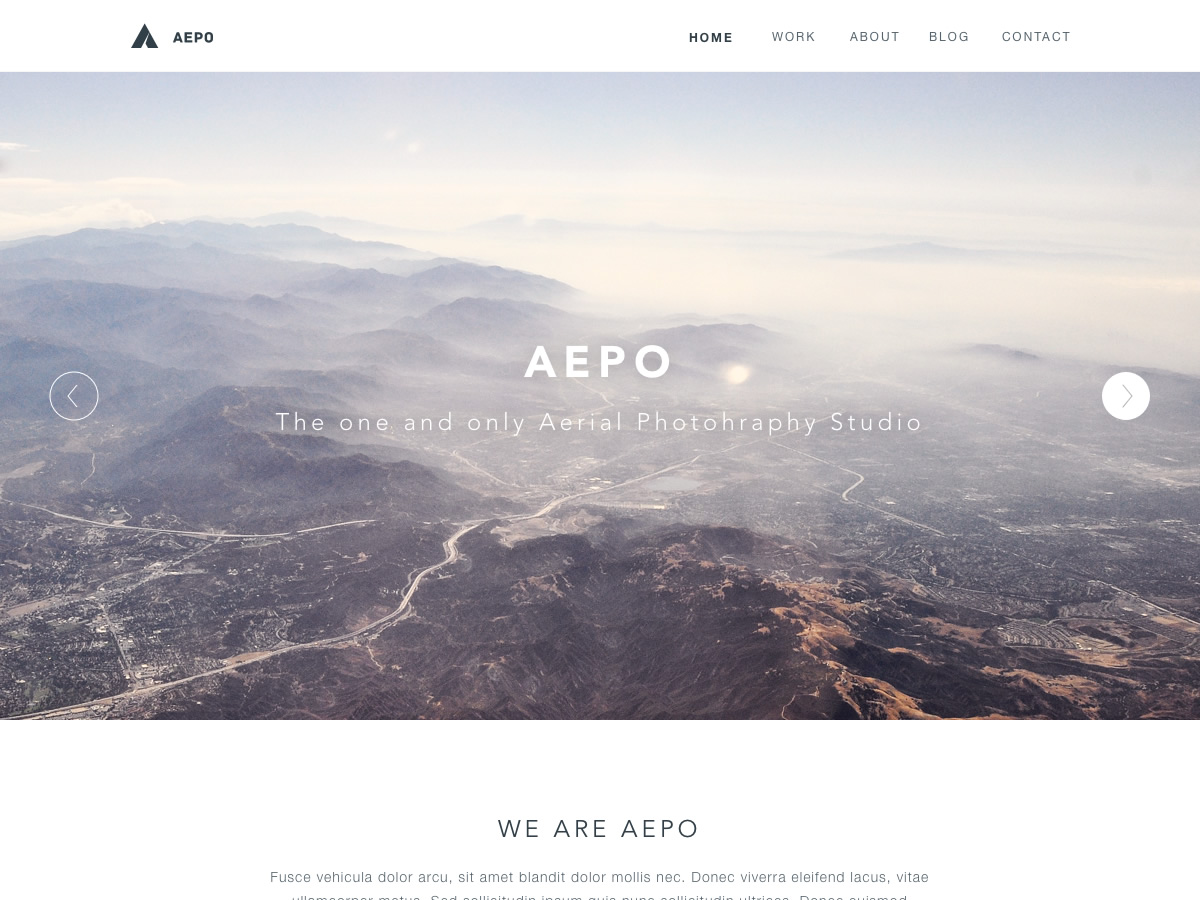
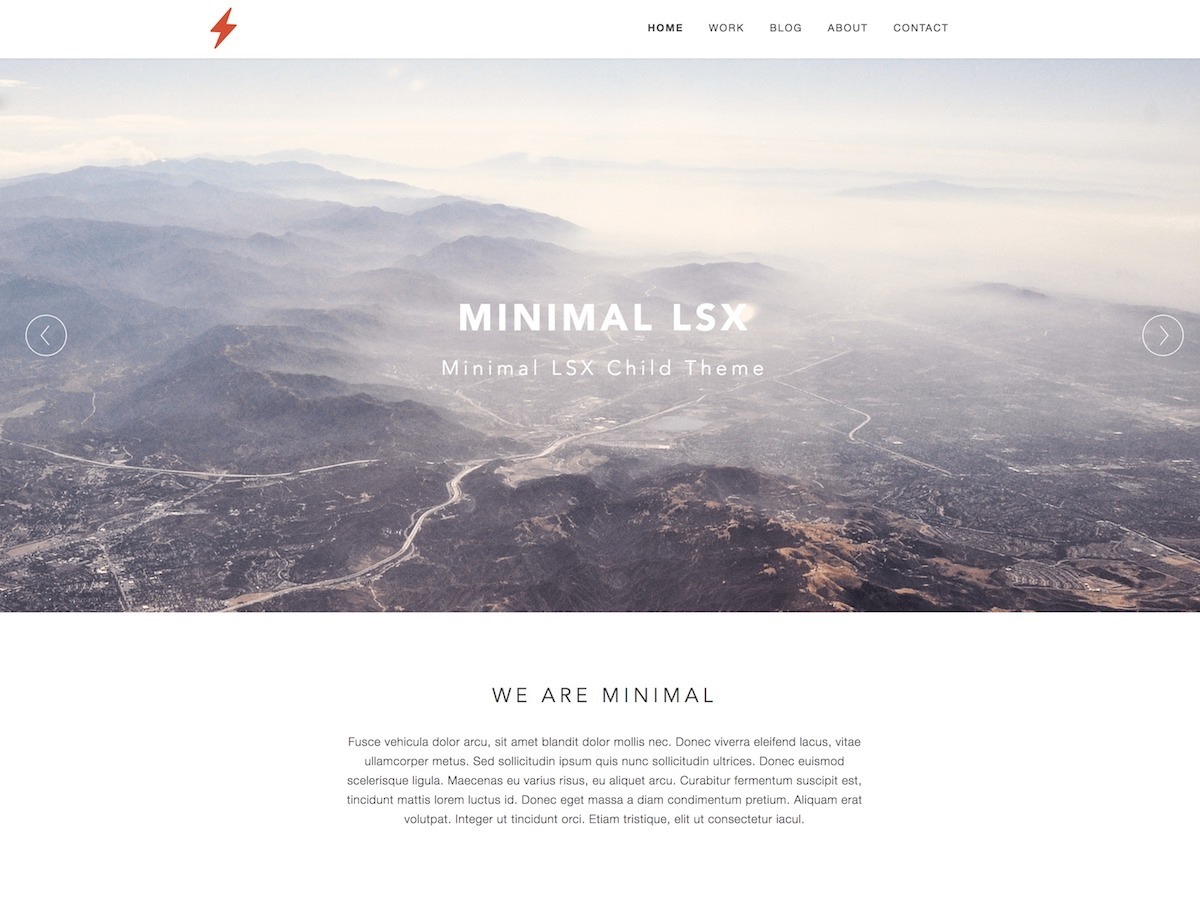
Updating tags, content license and adding standard Wordpress code to be fit for submission

diff --git a/assets/css/scss/custom.scss b/assets/css/scss/custom.scss
@@ -27,3 +27,113 @@
 @import 'content-minimal-widget-text';
 @import 'content-minimal-widget-posts';
 @import 'content-minimal-widget-testimonials';
+
+/* =WordPress Core
+-------------------------------------------------------------- */
+.alignnone {
+    margin: 5px 20px 20px 0;
+}
+
+.aligncenter,
+div.aligncenter {
+    display: block;
+    margin: 5px auto 5px auto;
+}
+
+.alignright {
+    float:right;
+    margin: 5px 0 20px 20px;
+}
+
+.alignleft {
+    float: left;
+    margin: 5px 20px 20px 0;
+}
+
+a img.alignright {
+    float: right;
+    margin: 5px 0 20px 20px;
+}
+
+a img.alignnone {
+    margin: 5px 20px 20px 0;
+}
+
+a img.alignleft {
+    float: left;
+    margin: 5px 20px 20px 0;
+}
+
+a img.aligncenter {
+    display: block;
+    margin-left: auto;
+    margin-right: auto;
+}
+
+.wp-caption {
+    background: #fff;
+    border: 1px solid #f0f0f0;
+    max-width: 96%; /* Image does not overflow the content area */
+    padding: 5px 3px 10px;
+    text-align: center;
+}
+
+.wp-caption.alignnone {
+    margin: 5px 20px 20px 0;
+}
+
+.wp-caption.alignleft {
+    margin: 5px 20px 20px 0;
+}
+
+.wp-caption.alignright {
+    margin: 5px 0 20px 20px;
+}
+
+.wp-caption img {
+    border: 0 none;
+    height: auto;
+    margin: 0;
+    max-width: 98.5%;
+    padding: 0;
+    width: auto;
+}
+
+.wp-caption p.wp-caption-text {
+    font-size: 11px;
+    line-height: 17px;
+    margin: 0;
+    padding: 0 4px 5px;
+}
+
+/* Text meant only for screen readers. */
+.screen-reader-text {
+	border: 0;
+	clip: rect(1px, 1px, 1px, 1px);
+	clip-path: inset(50%);
+	height: 1px;
+	margin: -1px;
+	overflow: hidden;
+	padding: 0;
+	position: absolute !important;
+	width: 1px;
+	word-wrap: normal !important; /* Many screen reader and browser combinations announce broken words as they would appear visually. */
+}
+
+.screen-reader-text:focus {
+	background-color: #eee;
+	clip: auto !important;
+	clip-path: none;
+	color: #444;
+	display: block;
+	font-size: 1em;
+	height: auto;
+	left: 5px;
+	line-height: normal;
+	padding: 15px 23px 14px;
+	text-decoration: none;
+	top: 5px;
+	width: auto;
+	z-index: 100000;
+	/* Above WP toolbar. */
+}

diff --git a/assets/css/custom-rtl.css b/assets/css/custom-rtl.css
@@ -234,3 +234,38 @@ h4.minimal-post-title { margin-bottom: 0; }
 .lsx-testimonials-slot .lsx-testimonials-byline > .fa, .lsx-testimonials-slot .lsx-testimonials-byline > .lsx-testimonials-meta { display: none; }
 
 .lsx-testimonials-slot .lsx-testimonials-byline > span { font-weight: 300; }
+
+/* =WordPress Core
+-------------------------------------------------------------- */
+.alignnone { margin: 5px 0 20px 20px; }
+
+.aligncenter, div.aligncenter { display: block; margin: 5px auto 5px auto; }
+
+.alignright { float: left; margin: 5px 20px 20px 0; }
+
+.alignleft { float: right; margin: 5px 0 20px 20px; }
+
+a img.alignright { float: left; margin: 5px 20px 20px 0; }
+
+a img.alignnone { margin: 5px 0 20px 20px; }
+
+a img.alignleft { float: right; margin: 5px 0 20px 20px; }
+
+a img.aligncenter { display: block; margin-right: auto; margin-left: auto; }
+
+.wp-caption { background: #fff; border: 1px solid #f0f0f0; max-width: 96%; /* Image does not overflow the content area */ padding: 5px 3px 10px; text-align: center; }
+
+.wp-caption.alignnone { margin: 5px 0 20px 20px; }
+
+.wp-caption.alignleft { margin: 5px 0 20px 20px; }
+
+.wp-caption.alignright { margin: 5px 20px 20px 0; }
+
+.wp-caption img { border: 0 none; height: auto; margin: 0; max-width: 98.5%; padding: 0; width: auto; }
+
+.wp-caption p.wp-caption-text { font-size: 11px; line-height: 17px; margin: 0; padding: 0 4px 5px; }
+
+/* Text meant only for screen readers. */
+.screen-reader-text { border: 0; clip: rect(1px, 1px, 1px, 1px); -webkit-clip-path: inset(50%); clip-path: inset(50%); height: 1px; margin: -1px; overflow: hidden; padding: 0; position: absolute !important; width: 1px; word-wrap: normal !important; /* Many screen reader and browser combinations announce broken words as they would appear visually. */ }
+
+.screen-reader-text:focus { background-color: #eee; clip: auto !important; -webkit-clip-path: none; clip-path: none; color: #444; display: block; font-size: 1em; height: auto; right: 5px; line-height: normal; padding: 15px 23px 14px; text-decoration: none; top: 5px; width: auto; z-index: 100000; /* Above WP toolbar. */ }

diff --git a/assets/css/custom.css b/assets/css/custom.css
@@ -235,4 +235,39 @@ h4.minimal-post-title { margin-bottom: 0; }
 
 .lsx-testimonials-slot .lsx-testimonials-byline > span { font-weight: 300; }
 
+/* =WordPress Core
+-------------------------------------------------------------- */
+.alignnone { margin: 5px 20px 20px 0; }
+
+.aligncenter, div.aligncenter { display: block; margin: 5px auto 5px auto; }
+
+.alignright { float: right; margin: 5px 0 20px 20px; }
+
+.alignleft { float: left; margin: 5px 20px 20px 0; }
+
+a img.alignright { float: right; margin: 5px 0 20px 20px; }
+
+a img.alignnone { margin: 5px 20px 20px 0; }
+
+a img.alignleft { float: left; margin: 5px 20px 20px 0; }
+
+a img.aligncenter { display: block; margin-left: auto; margin-right: auto; }
+
+.wp-caption { background: #fff; border: 1px solid #f0f0f0; max-width: 96%; /* Image does not overflow the content area */ padding: 5px 3px 10px; text-align: center; }
+
+.wp-caption.alignnone { margin: 5px 20px 20px 0; }
+
+.wp-caption.alignleft { margin: 5px 20px 20px 0; }
+
+.wp-caption.alignright { margin: 5px 0 20px 20px; }
+
+.wp-caption img { border: 0 none; height: auto; margin: 0; max-width: 98.5%; padding: 0; width: auto; }
+
+.wp-caption p.wp-caption-text { font-size: 11px; line-height: 17px; margin: 0; padding: 0 4px 5px; }
+
+/* Text meant only for screen readers. */
+.screen-reader-text { border: 0; clip: rect(1px, 1px, 1px, 1px); -webkit-clip-path: inset(50%); clip-path: inset(50%); height: 1px; margin: -1px; overflow: hidden; padding: 0; position: absolute !important; width: 1px; word-wrap: normal !important; /* Many screen reader and browser combinations announce broken words as they would appear visually. */ }
+
+.screen-reader-text:focus { background-color: #eee; clip: auto !important; -webkit-clip-path: none; clip-path: none; color: #444; display: block; font-size: 1em; height: auto; left: 5px; line-height: normal; padding: 15px 23px 14px; text-decoration: none; top: 5px; width: auto; z-index: 100000; /* Above WP toolbar. */ }
+
 /*# sourceMappingURL=maps/custom.css.map */

diff --git a/gulpfile.js b/gulpfile.js
@@ -41,7 +41,7 @@ gulp.task('default', function() {
 	console.log('gulp compile-css    to compile the scss to css');
 	console.log('gulp compile-js     to compile the js to min.js');
 	console.log('gulp watch          to continue watching the files for changes');
-	console.log('gulp wordpress-lang to compile the minimal-lsx-child.pot, en_EN.po and en_EN.mo');
+	console.log('gulp wordpress-lang to compile the minimal-lsx.pot, en_EN.po and en_EN.mo');
 });
 
 gulp.task('styles', function () {
@@ -121,19 +121,19 @@ gulp.task('wordpress-pot', function() {
 	return gulp.src('**/*.php')
 		.pipe(sort())
 		.pipe(wppot({
-			domain: 'minimal-lsx-child',
-			package: 'minimal-lsx-child',
+			domain: 'minimal-lsx',
+			package: 'minimal-lsx',
 			team: 'LightSpeed <webmaster@lsdev.biz>'
 		}))
-		.pipe(gulp.dest('languages/minimal-lsx-child.pot'))
+		.pipe(gulp.dest('languages/minimal-lsx.pot'))
 });
 
 gulp.task('wordpress-po', function() {
 	return gulp.src('**/*.php')
 		.pipe(sort())
 		.pipe(wppot({
-			domain: 'minimal-lsx-child',
-			package: 'minimal-lsx-child',
+			domain: 'minimal-lsx',
+			package: 'minimal-lsx',
 			team: 'LightSpeed <webmaster@lsdev.biz>'
 		}))
 		.pipe(gulp.dest('languages/en_EN.po'))

diff --git a/style.css b/style.css
@@ -1,11 +1,21 @@
 /*
-Theme Name:   Minimal
+Theme Name:   Minimal LSX
 Description:  Minimal LSX Child Theme
 Author:       LightSpeed
 Author URI:   https://www.lsdev.biz/
 Template:     lsx
-Version:      1.0.0
+Version:      1.1.1
 License:      GPL3
 License URI:  https://www.gnu.org/licenses/gpl-3.0.html
-Text Domain:  minimal-lsx-child
+Text Domain:  minimal-lsx
+Tags: portfolio, blog, e-commerce, one-column, two-columns, left-sidebar, right-sidebar, custom-background, custom-colors, custom-menu, editor-style, featured-images, post-formats, rtl-language-support, sticky-post, threaded-comments, translation-ready
+
+Parent Theme LSX, Copyright 2018 LightSpeed
+LSX Theme is distributed under the terms of the GNU General Public License v3.
+
+Minimal LSX Theme is the child theme of LSX Theme, Copyright 2018 LightSpeed
+Minimal LSX  under the terms of the GNU General Public License v3.
+
+Use it to make something cool, have fun, and share what you've learned with others.
+
 */

diff --git a/index.php b/index.php
@@ -1,0 +1,52 @@
+<?php
+/**
+ * The main template file.
+ *
+ * @package minimal-lsx-child
+ */
+get_header(); ?>
+
+<?php lsx_content_wrap_before(); ?>
+
+<div id="primary" class="content-area <?php echo esc_attr( lsx_main_class() ); ?>">
+
+	<?php lsx_content_before(); ?>
+
+	<main id="main" class="site-main" role="main">
+
+		<?php lsx_content_top(); ?>
+
+		<?php if ( have_posts() ) : ?>
+
+			<div class="post-wrapper">
+
+				<?php while ( have_posts() ) : the_post(); ?>
+
+					<?php get_template_part( 'partials/content', get_post_format() ); ?>
+
+				<?php endwhile; ?>
+
+			</div>
+
+			<?php lsx_paging_nav(); ?>
+
+		<?php else : ?>
+
+			<?php get_template_part( 'partials/content', 'none' ); ?>
+
+		<?php endif; ?>
+
+		<?php lsx_content_bottom(); ?>
+
+	</main><!-- #main -->
+
+	<?php lsx_content_after(); ?>
+
+</div><!-- #primary -->
+
+<?php lsx_content_wrap_after(); ?>
+
+<?php get_sidebar( 'sidebar' ); ?>
+
+<?php get_footer();
+

diff --git a/functions.php b/functions.php
@@ -41,7 +41,7 @@ add_action( 'after_setup_theme', 'lsx_minimal_setup', 11 );
  * @package    minimal-lsx-child
  * @subpackage setup
  */
-function lsx_minimal_scripts() {
+function minimal_lsx_scripts() {
 	wp_enqueue_script( 'minimal-lsx-child-scripts', get_stylesheet_directory_uri() . '/assets/js/custom.min.js', array( 'lsx_script' ), LSX_MINIMAL_VER, true );
 
 	// Remove Google Fonts feature from LSX theme
@@ -49,4 +49,4 @@ function lsx_minimal_scripts() {
 	wp_dequeue_style( 'lsx-body-font' );
 	wp_style_add_data( 'lsx_main', 'after', '' );
 }
-add_action( 'wp_enqueue_scripts', 'lsx_minimal_scripts', 1999 );
+add_action( 'wp_enqueue_scripts', 'minimal_lsx_scripts', 1999 );

diff --git a/assets/css/scss/index.php b/assets/css/scss/index.php
@@ -1,0 +1,23 @@
+<?php
+/**
+ * Index.
+ *
+ * @package     minimal-lsx
+ * @subpackage	lsx-customizer
+ */
+get_header(); ?>
+
+<h3>This is the core page (index.php):</h3>
+
+<?php while(have_posts()) : the_post(); ?>
+
+	title: <?php the_title(); ?><br />
+	ID: <?php the_ID(); ?><br />
+	time: <?php the_time(get_option('date_format')); ?><br />
+	excerpt: <?php the_excerpt(); ?><br />
+	link: <a href="<?php the_permalink(); ?>">link</a><br />
+	<hr />
+
+<?php endwhile; ?>
+
+<?php get_footer(); ?>
